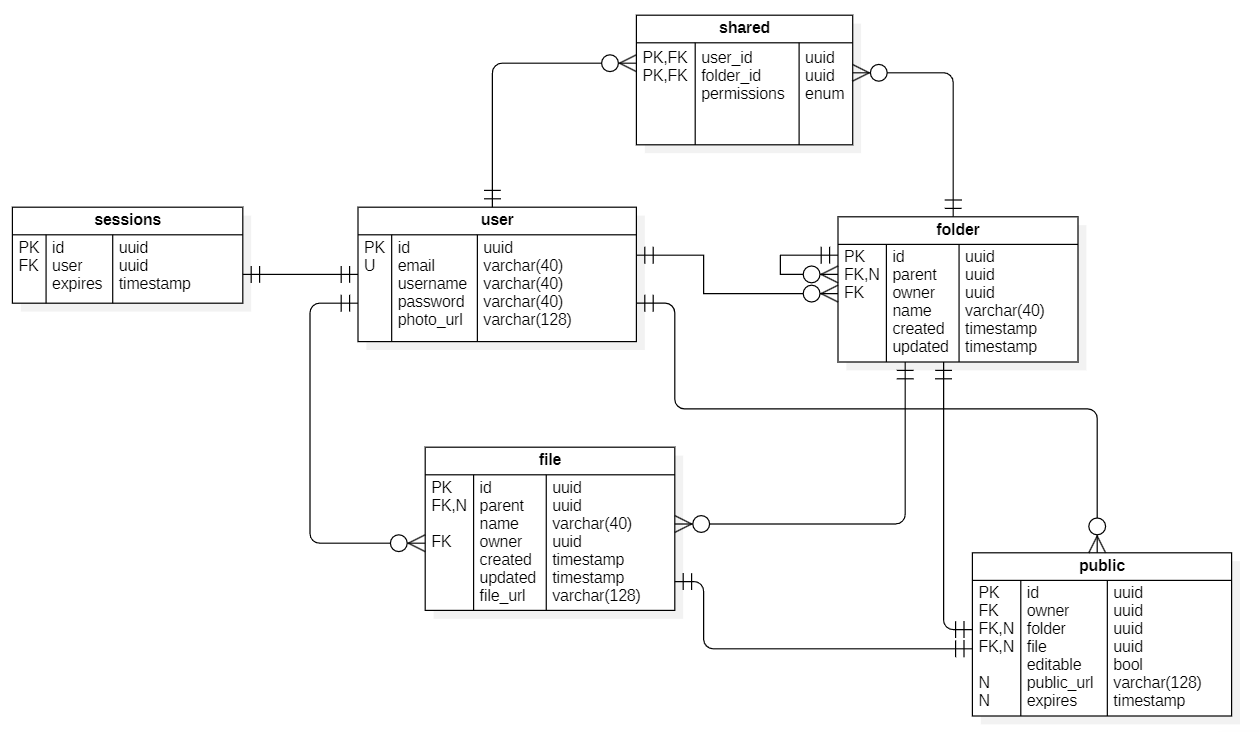
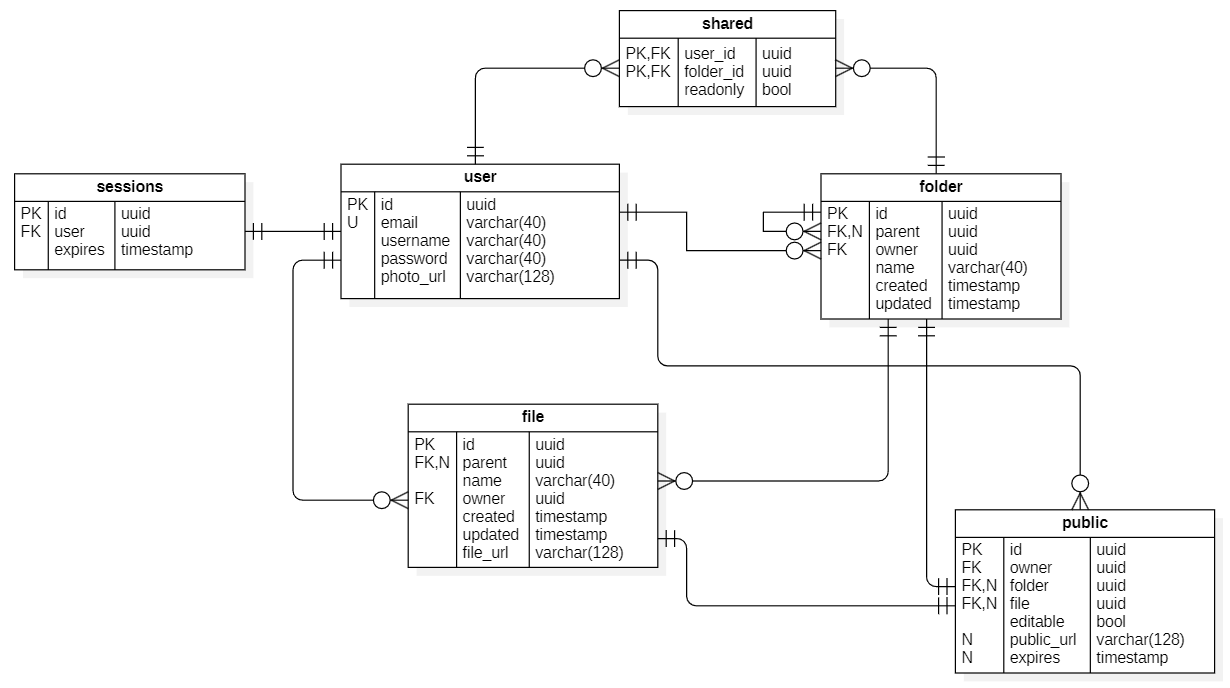
Поле permissions перименовал в readonly

diff --git a/README.md b/README.md
@@ -345,7 +345,6 @@ cloud.imgsmail.ru — Сервис доставки медиа-контента.
 - timestamp - 4 байта
 - varchar(n) - n байт
 - bool - 1 байт
-- permissions - 3 байт (Редактирование / Просмотр / Доступ закрыт)
 
 Для подсчета количества строк в таблицах предположим, что:
 
@@ -361,7 +360,7 @@ cloud.imgsmail.ru — Сервис доставки медиа-контента.
 | file             | 8 400 000 000    | 16 + 16 + 40 + 4 + 4 = 80 б             | 625 Gbit      |
 | folder           | 840 000 000      | 16 + 16 + 16 + 40 + 4 + 4 = 96 б        | 75,1 Gbit     |
 | public           | 84 000 000       | 16 + 16 + 16 + 16 + 1 + 128 + 4 = 197 б | 15,41 Gbit    |
-| shared           | 772 000 000      | 16 + 16 + 16 + 3 = 51 б                 | 36,67 Gbit    |
+| shared           | 772 000 000      | 16 + 16 + 16 + 1 = 49 б                 | 36,67 Gbit    |
 
 ## 6. Физическая схема БД <a name="6_part"></a>
 
